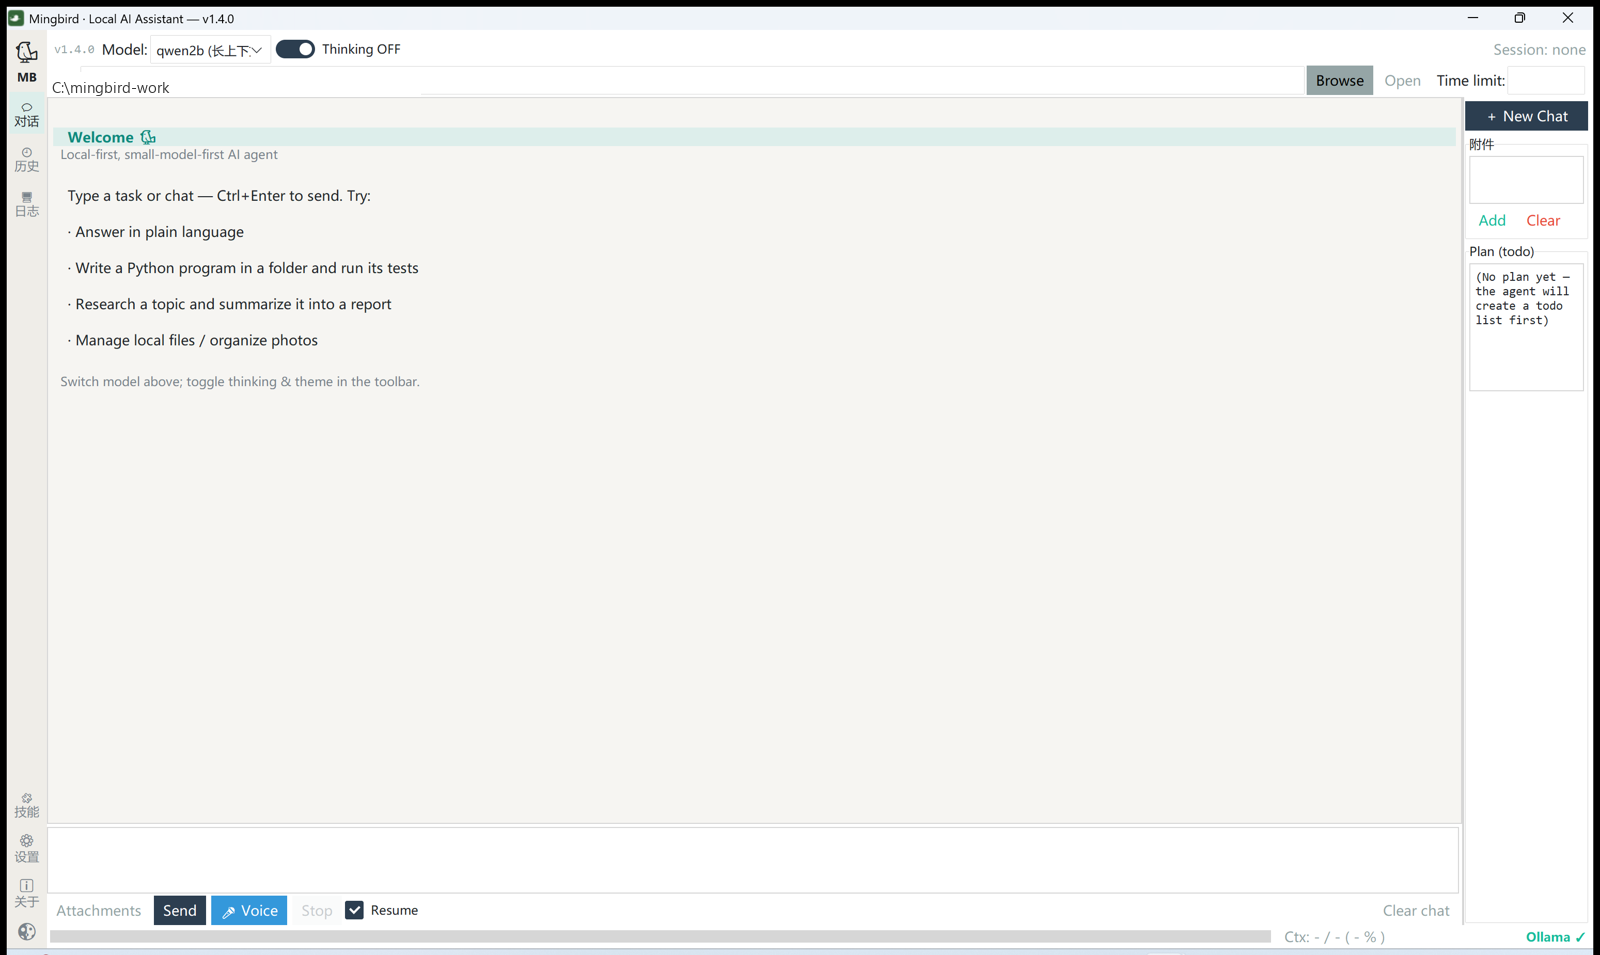
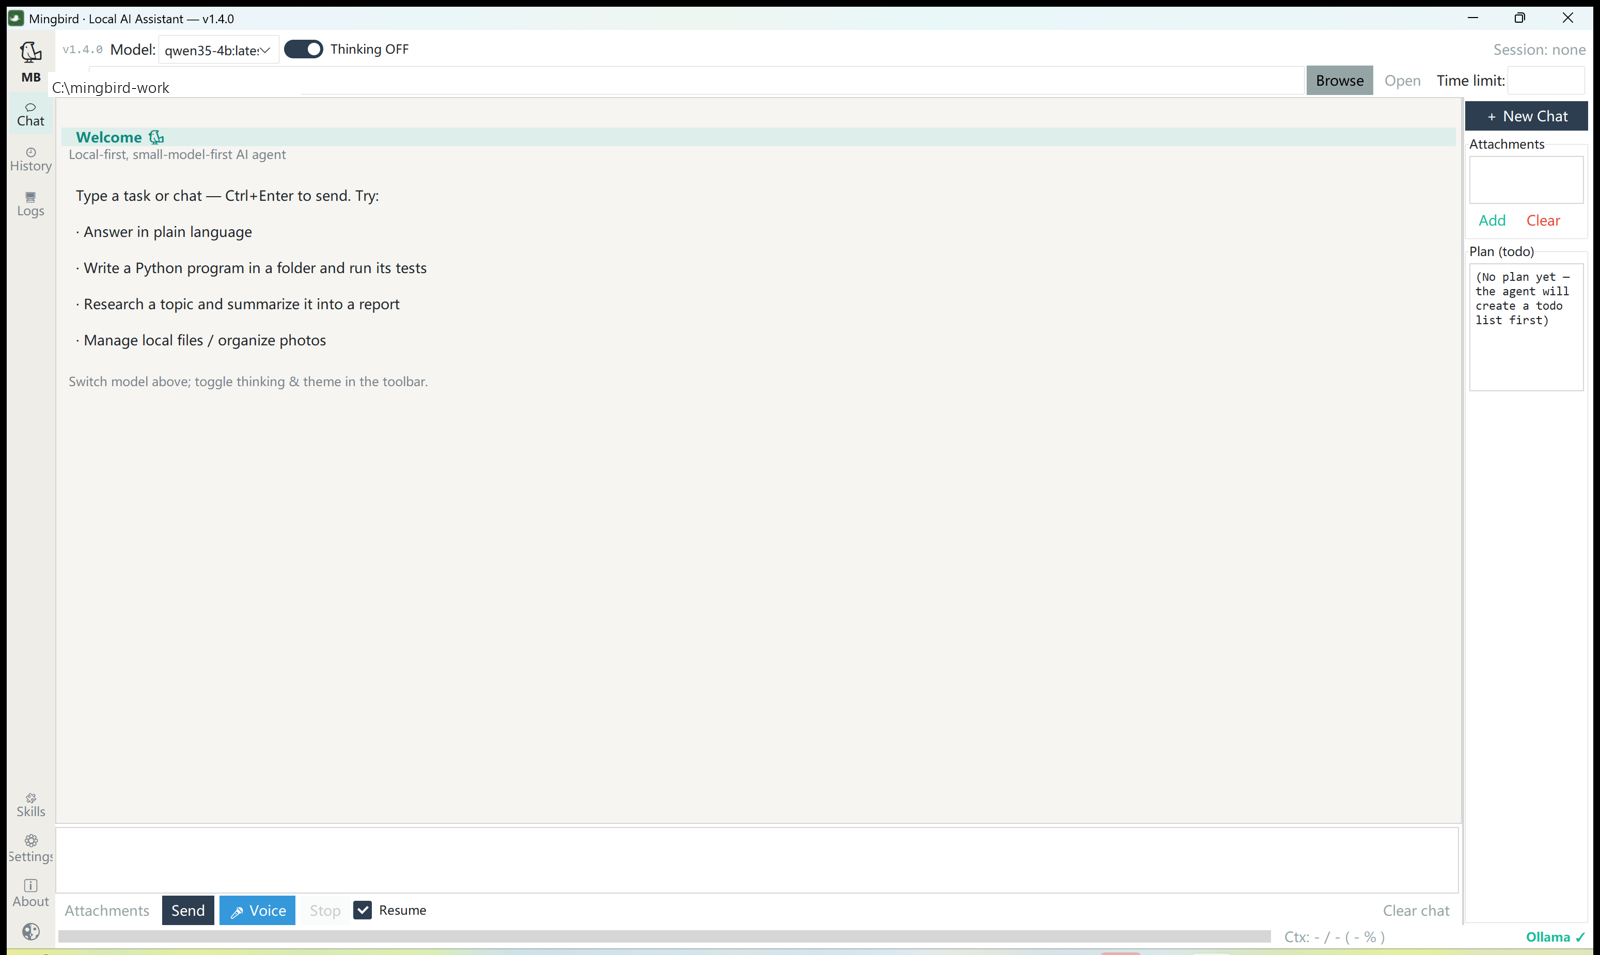
fix: refresh_models clean rewrite (retry x3, offline placeholder instead of stale models, self-heal on tag change); _t shadowing fix; v2 UI polish; redacted screenshot

diff --git a/agent_gui.py b/agent_gui.py
@@ -286,15 +286,17 @@ class AgentGUI:
 
     def refresh_models(self):
         """从 ollama 动态读取已安装模型,构建 显示名→tag 映射。
-        用户可在 config.json 的 models 字段给模型起友好名;未配置的模型直接用原始 tag。
-        不硬编码任何模型名——每个用户按自己机器上的模型配置。"""
+        - ollama 可达:下拉 = 实际安装的模型(配置了友好名则显示友好名);
+          配置里已卸载的模型不显示(它们跑不起来)。
+        - ollama 不可达:下拉显示明确的离线占位,不冒充可用模型;
+          _check_ollama 的自愈会在 ollama 恢复后自动重试刷新。
+        查询带 3 次重试:批次满载时 /api/tags 偶发 >3s 超时,重试避免闪回陈旧列表。"""
         m = {}
         cfg_display = appconfig.model_map()          # {显示名: tag}
         tag_to_display = {v: k for k, v in cfg_display.items()}
         tags = []
-        # 批次重载时 ollama 可能瞬时忙碌:/api/tags 3s 常不够,重试避免闪回陈旧配置列表
         import urllib.request as _ur
-        import time as _tm   # 别名不可用 _t:会遮蔽全局 i18n 函数 _t(),致 refresh_models 崩溃
+        import time as _sleep_mod
         for _ in range(3):
             try:
                 r = json.loads(_ur.urlopen(f"{appconfig.ollama_host()}/api/tags", timeout=6).read())
@@ -302,9 +304,16 @@ class AgentGUI:
                 break
             except Exception:
                 tags = []
-                _tm.sleep(0.8)
+                _sleep_mod.sleep(0.8)
         if not tags:
-            tags = list(cfg_display.values())        # ollama 不可达时,退回用户配置的模型(可能含已卸载项,仅应急)
+            # ollama 不可达:不把配置里的陈旧映射当可用模型展示(那会让用户选到跑不起来的模型)
+            self._model_map = {}
+            try:
+                self.model_cb.configure(values=["[ Ollama 离线 — 启动后自动重试 ]"])
+                self.model_var.set("[ Ollama 离线 — 启动后自动重试 ]")
+            except Exception:
+                pass
+            return
         for t in tags:
             display = tag_to_display.get(t, t)
             m[_t(display)] = t
@@ -315,7 +324,6 @@ class AgentGUI:
                 self.model_var.set(list(m)[0])
         except Exception:
             pass
-        return m
 
     def __init__(self, root):
         self.root = root
@@ -1304,11 +1312,12 @@ class AgentGUI:
             r = json.loads(_ur.urlopen(appconfig.ollama_host().rstrip("/") + "/api/tags", timeout=2).read())
             up = True; has_models = bool(r.get("models"))
             live_tags = tuple(sorted(x.get("name", "") for x in r.get("models", [])))
-            if live_tags != getattr(self, "_last_live_tags", None):
-                first = not hasattr(self, "_last_live_tags")
-                self._last_live_tags = live_tags
-                if not first:
-                    self.refresh_models()   # 模型清单变化(或启动时查询失败过)→ 自动刷新下拉
+            self._last_live_tags = live_tags
+            # 自愈条件:当前下拉框里的 tag 集合 != ollama 实际安装集合
+            # (覆盖:启动时 ollama 未就绪走了配置回退 / 用户 pull 了新模型 / 卸载了模型)
+            cur_tags = frozenset(getattr(self, "_model_map", {}).values())
+            if cur_tags != frozenset(live_tags):
+                self.refresh_models()
         except Exception:
             pass
         except Exception:
